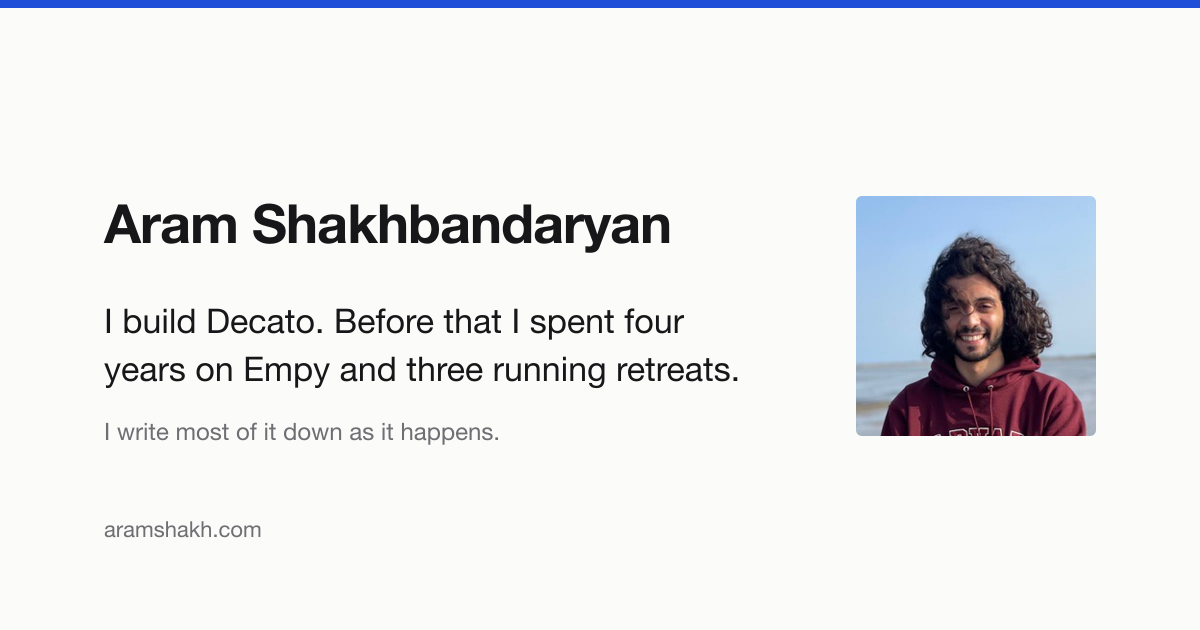
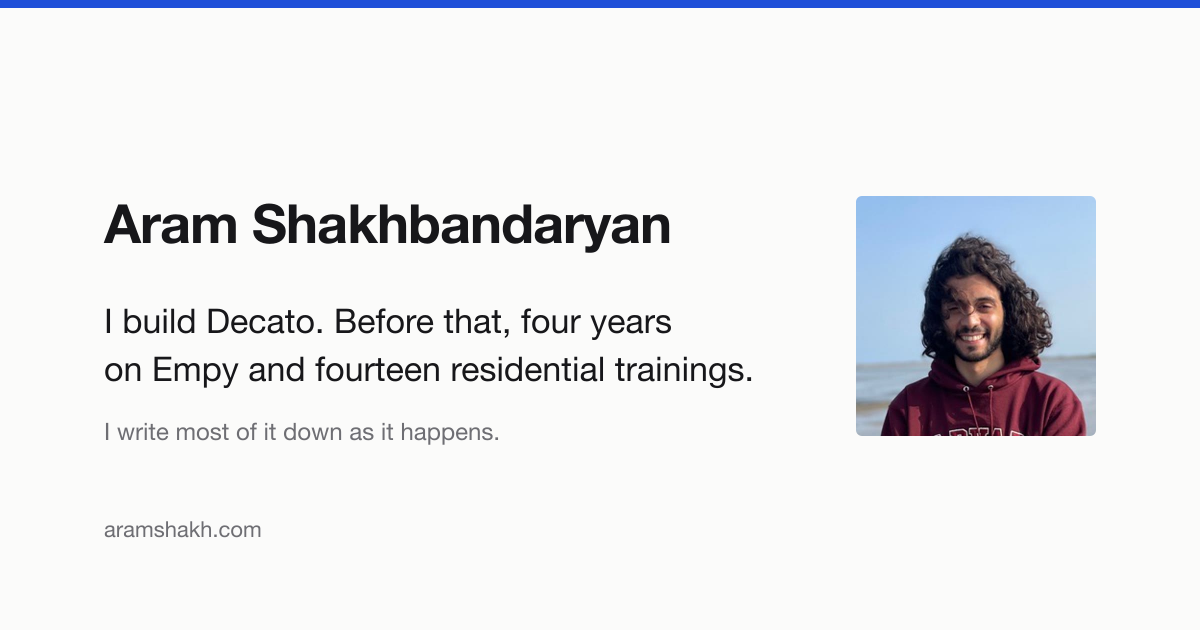
Fix an ambiguous count in the headline
"four years on Empy and three running retreats" was meant as three
years, but it reads as three retreats, and read that way it is wrong:
there were fourteen. Replaced with the count itself, which needs no
parsing — "four years on Empy and fourteen residential trainings".

Meta description, og:description and the share card follow.

Changed region(s): [[0.0617, 0.5429, 0.6167, 0.6333], [0.4008, 0.4825, 0.5858, 0.5429]]

diff --git a/index.html b/index.html
@@ -4,7 +4,7 @@
 <meta charset="utf-8">
 <meta name="viewport" content="width=device-width, initial-scale=1">
 <title>Aram Shakhbandaryan</title>
-<meta name="description" content="Aram Shakhbandaryan builds Decato. Before that, four years on Empy and three running retreats, most of it written down as it happened.">
+<meta name="description" content="Aram Shakhbandaryan builds Decato. Before that, four years on Empy and fourteen residential trainings, most of it written down as it happened.">
 <link rel="canonical" href="https://aramshakh.com/">
 <meta name="theme-color" content="#fbfbfa" media="(prefers-color-scheme: light)">
 <meta name="theme-color" content="#121214" media="(prefers-color-scheme: dark)">
@@ -13,7 +13,7 @@
 <meta property="og:type" content="profile">
 <meta property="og:site_name" content="Aram Shakhbandaryan">
 <meta property="og:title" content="Aram Shakhbandaryan">
-<meta property="og:description" content="I build Decato. Before that I spent four years on Empy and three running retreats. I write most of it down as it happens.">
+<meta property="og:description" content="I build Decato. Before that, four years on Empy and fourteen residential trainings. I write most of it down as it happens.">
 <meta property="og:url" content="https://aramshakh.com/">
 <meta property="og:image" content="https://aramshakh.com/assets/og.png">
 <meta property="og:image:width" content="1200">
@@ -59,7 +59,7 @@
 
   <section class="intro">
     <div>
-      <h1>I build Decato. Before that I spent four years on Empy and three running retreats.</h1>
+      <h1>I build Decato. Before that, four years on Empy and fourteen residential trainings.</h1>
       <p class="lede">I write most of it down as it happens.</p>
     </div>
     <img class="portrait" src="/assets/aram-portrait.jpg" alt="Aram Shakhbandaryan" width="180" height="240">
